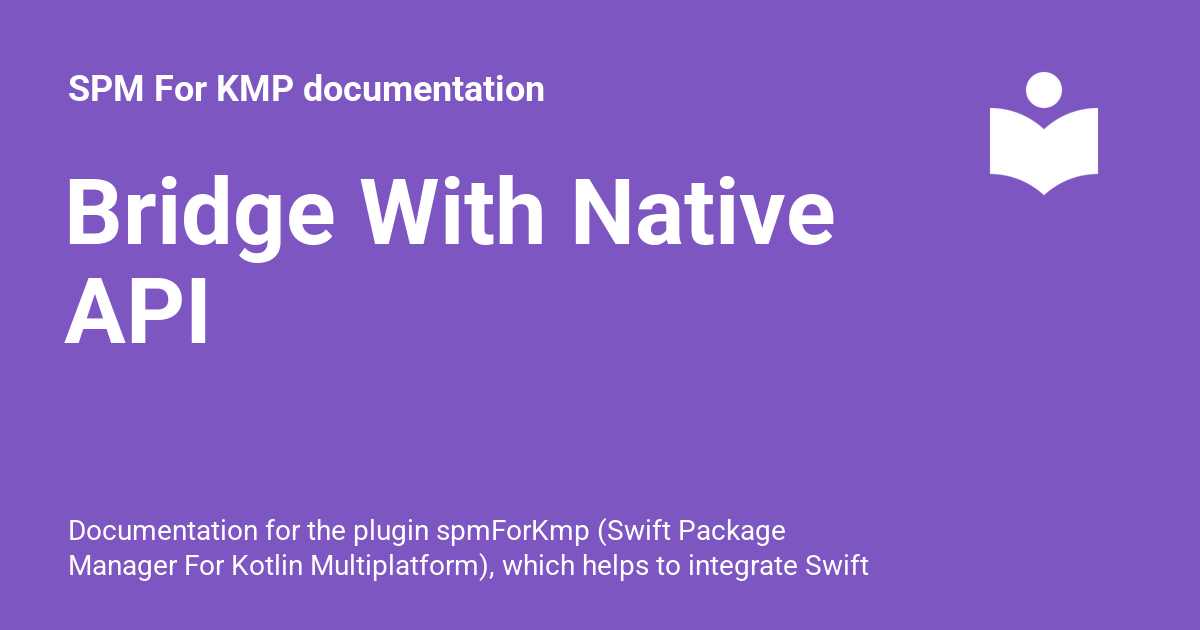
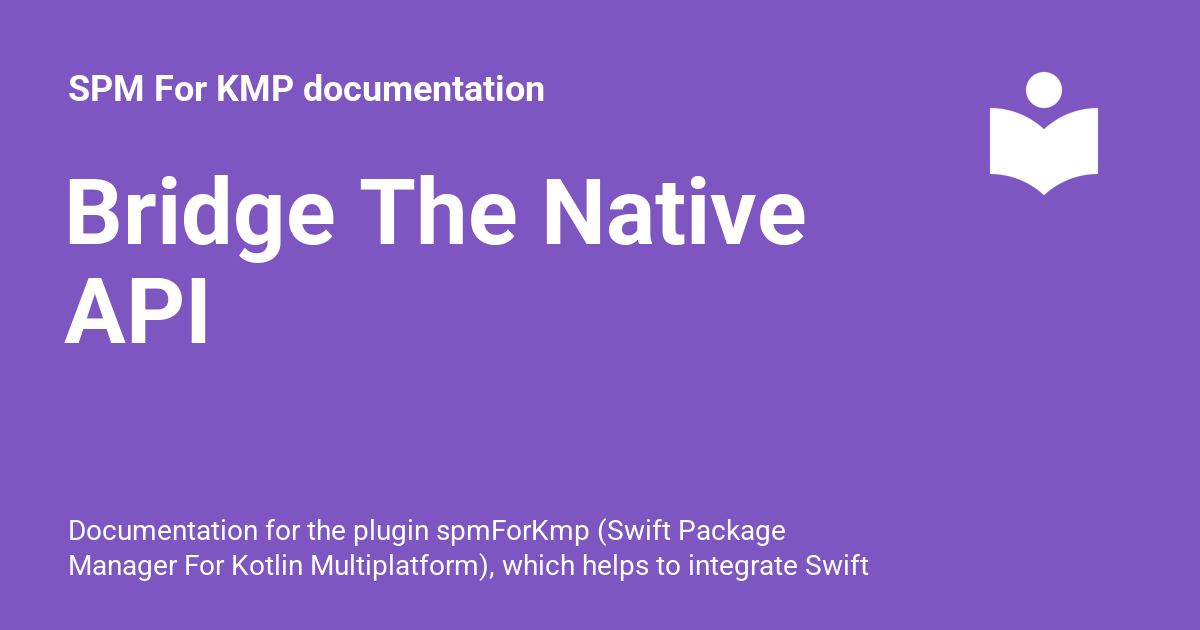
Deployed a1476ba with MkDocs version: 1.6.1

Changed region(s): [[0.2775, 0.2714, 0.7092, 0.3921]]

diff --git a/bridge/index.html b/bridge/index.html
@@ -26,7 +26,7 @@
     
     
       
-        <title>Bridge With Native API - SPM For KMP documentation</title>
+        <title>Bridge The Native API - SPM For KMP documentation</title>
       
     
     
@@ -61,7 +61,7 @@
       
         <meta  property="og:type"  content="website" >
       
-        <meta  property="og:title"  content="Bridge With Native API - SPM For KMP documentation" >
+        <meta  property="og:title"  content="Bridge The Native API - SPM For KMP documentation" >
       
         <meta  property="og:description"  content="Documentation for the plugin spmForKmp (Swift Package Manager For Kotlin Multiplatform), which helps to integrate Swift Package into a KMP project by importing his content or using a bridge." >
       
@@ -77,7 +77,7 @@
       
         <meta  name="twitter:card"  content="summary_large_image" >
       
-        <meta  name="twitter:title"  content="Bridge With Native API - SPM For KMP documentation" >
+        <meta  name="twitter:title"  content="Bridge The Native API - SPM For KMP documentation" >
       
         <meta  name="twitter:description"  content="Documentation for the plugin spmForKmp (Swift Package Manager For Kotlin Multiplatform), which helps to integrate Swift Package into a KMP project by importing his content or using a bridge." >
       
@@ -104,7 +104,7 @@
     <div data-md-component="skip">
       
         
-        <a href="#bridge-with-native-api" class="md-skip">
+        <a href="#bridge-the-native-api" class="md-skip">
           Skip to content
         </a>
       
@@ -140,7 +140,7 @@
         <div class="md-header__topic" data-md-component="header-topic">
           <span class="md-ellipsis">
             
-              Bridge With Native API
+              Bridge The Native API
             
           </span>
         </div>
@@ -355,7 +355,7 @@
           
   
   <span class="md-ellipsis">
-    Bridge With Native API
+    Bridge The Native API
     
   </span>
   
@@ -367,7 +367,7 @@
         
   
   <span class="md-ellipsis">
-    Bridge With Native API
+    Bridge The Native API
     
   </span>
   
@@ -756,7 +756,7 @@
   
 
 
-<h1 id="bridge-with-native-api">Bridge With Native API</h1>
+<h1 id="bridge-the-native-api">Bridge The Native API</h1>
 <h2 id="gradle">Gradle</h2>
 <p>The following configuration is a simple bridge between Kotlin and the Swift Apple SDK.</p>
 <div class="language-kotlin highlight"><span class="filename">build.gradle.kts</span><pre><span></span><code><span id="__span-0-1"><a id="__codelineno-0-1" name="__codelineno-0-1" href="#__codelineno-0-1"></a><span class="n">swiftPackageConfig</span><span class="w"> </span><span class="p">{</span>
@@ -778,11 +778,16 @@ or it won't be exported and available from your Kotlin code.</p>
 </span><span id="__span-1-4"><a id="__codelineno-1-4" name="__codelineno-1-4" href="#__codelineno-1-4"></a><span class="w">    </span><span class="kd">public</span><span class="w"> </span><span class="kd">func</span><span class="w"> </span><span class="nf">exportedMethod</span><span class="p">()</span><span class="w"> </span><span class="p">-&gt;</span><span class="w"> </span><span class="nb">String</span><span class="w"> </span><span class="p">{</span>
 </span><span id="__span-1-5"><a id="__codelineno-1-5" name="__codelineno-1-5" href="#__codelineno-1-5"></a><span class="w">        </span><span class="k">return</span><span class="w"> </span><span class="s">&quot;value&quot;</span>
 </span><span id="__span-1-6"><a id="__codelineno-1-6" name="__codelineno-1-6" href="#__codelineno-1-6"></a><span class="w">    </span><span class="p">}</span>
-</span><span id="__span-1-7"><a id="__codelineno-1-7" name="__codelineno-1-7" href="#__codelineno-1-7"></a><span class="p">}</span>
+</span><span id="__span-1-7"><a id="__codelineno-1-7" name="__codelineno-1-7" href="#__codelineno-1-7"></a><span class="w">    </span><span class="kd">public</span><span class="w"> </span><span class="kd">func</span><span class="w"> </span><span class="nf">exportedView</span><span class="p">()</span><span class="w"> </span><span class="p">-&gt;</span><span class="w"> </span><span class="bp">NSObject</span><span class="w"> </span><span class="p">{</span>
+</span><span id="__span-1-8"><a id="__codelineno-1-8" name="__codelineno-1-8" href="#__codelineno-1-8"></a><span class="w">        </span><span class="k">return</span><span class="w"> </span><span class="bp">UIView</span><span class="p">()</span>
+</span><span id="__span-1-9"><a id="__codelineno-1-9" name="__codelineno-1-9" href="#__codelineno-1-9"></a><span class="w">    </span><span class="p">}</span>
+</span><span id="__span-1-10"><a id="__codelineno-1-10" name="__codelineno-1-10" href="#__codelineno-1-10"></a><span class="p">}</span>
 </span></code></pre></div>
 <div class="language-kotlin highlight"><span class="filename">iosMain/kotlin/com/example/myKotlinFile.kt</span><pre><span></span><code><span id="__span-2-1"><a id="__codelineno-2-1" name="__codelineno-2-1" href="#__codelineno-2-1"></a><span class="k">import</span><span class="w"> </span><span class="nn">[cinteropname].MySwiftBridge</span>
 </span><span id="__span-2-2"><a id="__codelineno-2-2" name="__codelineno-2-2" href="#__codelineno-2-2"></a>
 </span><span id="__span-2-3"><a id="__codelineno-2-3" name="__codelineno-2-3" href="#__codelineno-2-3"></a><span class="kd">val</span><span class="w"> </span><span class="nv">contentFromSwift</span><span class="w"> </span><span class="o">=</span><span class="w"> </span><span class="n">MySwiftBridge</span><span class="p">().</span><span class="na">exportedMethod</span><span class="p">()</span>
+</span><span id="__span-2-4"><a id="__codelineno-2-4" name="__codelineno-2-4" href="#__codelineno-2-4"></a>
+</span><span id="__span-2-5"><a id="__codelineno-2-5" name="__codelineno-2-5" href="#__codelineno-2-5"></a><span class="kd">val</span><span class="w"> </span><span class="nv">aView</span><span class="w"> </span><span class="o">=</span><span class="w"> </span><span class="n">MySwiftBridge</span><span class="p">().</span><span class="na">exportedView</span><span class="p">()</span><span class="w"> </span><span class="k">as</span><span class="w"> </span><span class="n">UIView</span>
 </span></code></pre></div>
 
 

diff --git a/distribution/index.html b/distribution/index.html
@@ -346,7 +346,7 @@
         
   
   <span class="md-ellipsis">
-    Bridge With Native API
+    Bridge The Native API
     
   </span>
   
@@ -1004,7 +1004,7 @@
 </span><span id="__span-0-2"><a id="__codelineno-0-2" name="__codelineno-0-2" href="#__codelineno-0-2"></a><span class="kd">public</span><span class="w"> </span><span class="kd">expect</span><span class="w"> </span><span class="kd">fun</span><span class="w"> </span><span class="nf">KmpPlayer</span><span class="p">(</span><span class="n">modifier</span><span class="p">:</span><span class="w"> </span><span class="n">Modifier</span><span class="w"> </span><span class="o">=</span><span class="w"> </span><span class="n">Modifier</span><span class="p">,</span><span class="w"> </span><span class="n">url</span><span class="p">:</span><span class="w"> </span><span class="kt">String</span><span class="p">)</span>
 </span></code></pre></div>
 <h3 id="android">Android</h3>
-<p>For Android, it uses <a href="https://github.com/google/ExoPlayer">Exoplyer</a>.</p>
+<p>For Android, it uses <a href="https://github.com/google/ExoPlayer">Exoplayer</a>.</p>
 <h4 id="gradle">Gradle</h4>
 <div class="language-Kotlin highlight"><span class="filename">library/build.gradle.kts</span><pre><span></span><code><span id="__span-1-1"><a id="__codelineno-1-1" name="__codelineno-1-1" href="#__codelineno-1-1"></a><span class="n">androidMain</span><span class="p">.</span><span class="na">dependencies</span><span class="w"> </span><span class="p">{</span>
 </span><span id="__span-1-2"><a id="__codelineno-1-2" name="__codelineno-1-2" href="#__codelineno-1-2"></a><span class="w">    </span><span class="n">implementation</span><span class="p">(</span><span class="n">libs</span><span class="p">.</span><span class="na">media3</span><span class="p">.</span><span class="na">exoplayer</span><span class="p">)</span>

diff --git a/404.html b/404.html
@@ -309,7 +309,7 @@
         
   
   <span class="md-ellipsis">
-    Bridge With Native API
+    Bridge The Native API
     
   </span>
   

diff --git a/bridgeWithDependencies/index.html b/bridgeWithDependencies/index.html
@@ -346,7 +346,7 @@
         
   
   <span class="md-ellipsis">
-    Bridge With Native API
+    Bridge The Native API
     
   </span>
   

diff --git a/exportingDependencies/index.html b/exportingDependencies/index.html
@@ -346,7 +346,7 @@
         
   
   <span class="md-ellipsis">
-    Bridge With Native API
+    Bridge The Native API
     
   </span>
   

diff --git a/faq/index.html b/faq/index.html
@@ -346,7 +346,7 @@
         
   
   <span class="md-ellipsis">
-    Bridge With Native API
+    Bridge The Native API
     
   </span>
   

diff --git a/index.html b/index.html
@@ -412,7 +412,7 @@
         
   
   <span class="md-ellipsis">
-    Bridge With Native API
+    Bridge The Native API
     
   </span>
   

diff --git a/largebridge/index.html b/largebridge/index.html
@@ -346,7 +346,7 @@
         
   
   <span class="md-ellipsis">
-    Bridge With Native API
+    Bridge The Native API
     
   </span>
   

diff --git a/license/index.html b/license/index.html
@@ -339,7 +339,7 @@
         
   
   <span class="md-ellipsis">
-    Bridge With Native API
+    Bridge The Native API
     
   </span>
   

diff --git a/multiTarget/index.html b/multiTarget/index.html
@@ -346,7 +346,7 @@
         
   
   <span class="md-ellipsis">
-    Bridge With Native API
+    Bridge The Native API
     
   </span>
   

diff --git a/references/productName/index.html b/references/productName/index.html
@@ -346,7 +346,7 @@
         
   
   <span class="md-ellipsis">
-    Bridge With Native API
+    Bridge The Native API
     
   </span>
   

diff --git a/references/productPackageConfig/index.html b/references/productPackageConfig/index.html
@@ -346,7 +346,7 @@
         
   
   <span class="md-ellipsis">
-    Bridge With Native API
+    Bridge The Native API
     
   </span>
   
